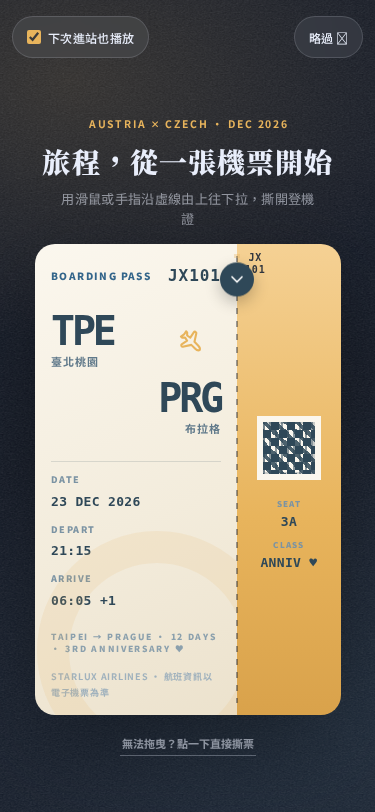
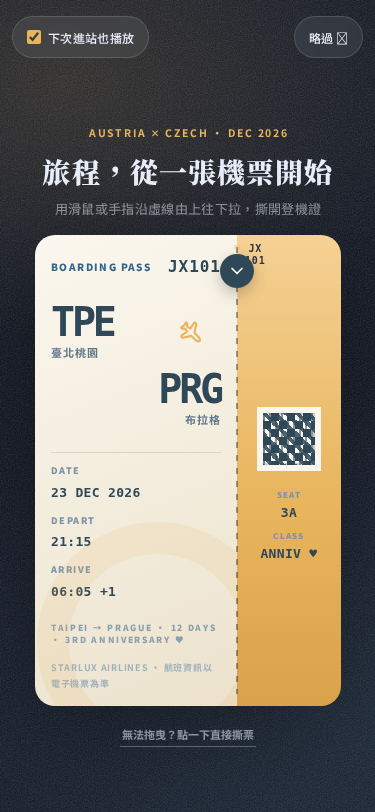
version3: intro 版面修正（滿版 overlay、橫向/矮視窗、手機孤字）

diff --git a/index.html b/index.html
@@ -386,7 +386,7 @@ footer .rply:hover{color:var(--gold2)}
   .intro-kicker span{display:none}
   .intro-kicker{letter-spacing:.18em;text-indent:.18em;font-size:10.4px}
   .trip-intro h2{font-size:28px}
-  .intro-ticket-hint{padding:0 1.5rem;line-height:1.5}
+  .intro-ticket-hint{padding:0 1rem;line-height:1.5}
   .intro-ticket{grid-template-columns:66% 34%;height:clamp(430px,58dvh,510px);min-height:0;max-width:420px;margin-top:16px}
   .intro-ticket-main{border-radius:20px 0 0 20px;padding:18px 16px 14px}
   .intro-ticket-stub{border-radius:0 20px 20px 0;padding:12px 8px}
@@ -405,6 +405,33 @@ footer .rply:hover{color:var(--gold2)}
   .intro-ticket-stub strong{font-size:13px}
   .intro-tear-track{left:66%}
   .intro-tear-fallback{font-size:11px}
+}
+/* 橫向手機／矮視窗（QA 評審要求）：壓縮開場垂直尺寸，確保撕票軌道與 fallback 完整可見、撕票可完成 */
+@media (max-height:600px){
+  .intro-ticket-stage{padding-top:32px}
+  .intro-kicker span{display:none}
+  .trip-intro h2{font-size:clamp(20px,4.5dvh,34px)}
+  .intro-ticket-hint{font-size:11px}
+  .intro-ticket{height:min(clamp(200px,52dvh,340px),calc(100dvh - 166px));margin:14px auto 0}
+  .intro-ticket-main{padding:16px 24px 12px}
+  .ticket-route{margin:12px 0}
+  .ticket-route strong{font-size:clamp(30px,4.5vw,44px)}
+  .ticket-caption{margin:6px 0 0}
+  .ticket-foot{margin:4px 0 0}
+  .ticket-qr{width:64px;height:64px;margin:20px 12px 12px}
+  .intro-tear-fallback{margin-top:8px}
+}
+@media (max-width:640px) and (max-height:600px){
+  .intro-ticket-stage{padding-top:52px}
+  .intro-kicker{display:none}
+  .trip-intro h2{font-size:18px}
+  .intro-ticket-hint{display:none}
+  .intro-ticket{height:clamp(180px,56dvh,510px);margin:10px auto 0}
+  .ticket-route{margin:8px 0}
+  .ticket-route strong{font-size:32px}
+  .ticket-meta{gap:.3rem;padding-top:6px}
+  .ticket-caption,.ticket-foot{display:none}
+  .intro-tear-fallback{margin-top:8px}
 }
 
 @media (max-width:640px){
